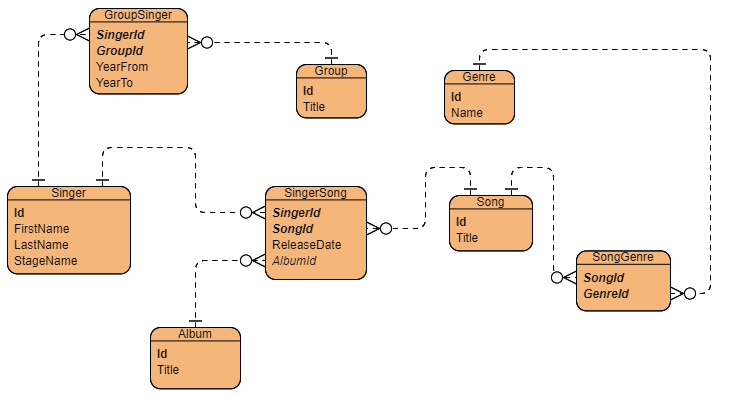
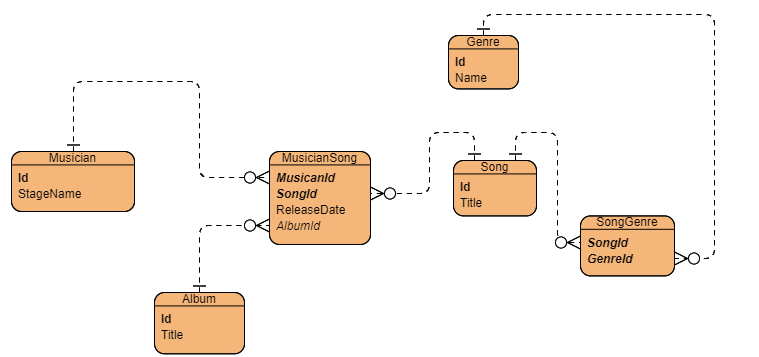
Database schema updated & create song feature added

diff --git a/src/main/java/lt/vu/usecases/Musicians.java b/src/main/java/lt/vu/usecases/Musicians.java
@@ -1,0 +1,35 @@
+package lt.vu.usecases;
+
+import lombok.Getter;
+import lt.vu.entities.Musician;
+
+import javax.annotation.PostConstruct;
+import javax.enterprise.inject.Model;
+import java.util.ArrayList;
+import java.util.List;
+
+@Model
+public class Musicians {
+    @Getter
+    private List<Musician> allMusicians;
+
+    @PostConstruct
+    public void init(){
+        loadMusicians();
+    }
+
+    public void loadMusicians() {
+        this.allMusicians = getMockedMusicians();
+    }
+
+    private List<Musician> getMockedMusicians(){
+        List<Musician> musicians = new ArrayList<>();
+        musicians.add(new Musician("Billie Eilish"));
+        musicians.add(new Musician("Taylor Swift"));
+        musicians.add(new Musician("Ed Sheeran"));
+        musicians.add(new Musician("Shawn Mendes"));
+        musicians.add(new Musician("Selena Gomez"));
+        musicians.add(new Musician("The Weeknd"));
+        return musicians;
+    }
+}

diff --git a/src/main/java/lt/vu/usecases/Songs.java b/src/main/java/lt/vu/usecases/Songs.java
@@ -1,0 +1,40 @@
+package lt.vu.usecases;
+
+import lombok.Getter;
+import lombok.Setter;
+import lt.vu.entities.Song;
+import lt.vu.persistence.SongsDAO;
+
+import javax.annotation.PostConstruct;
+import javax.enterprise.inject.Model;
+import javax.inject.Inject;
+import javax.transaction.Transactional;
+import java.util.List;
+
+@Model
+public class Songs {
+    @Inject
+    private SongsDAO songsDAO;
+
+    @Getter
+    @Setter
+    private Song songToCreate = new Song();
+
+    @Getter
+    private List<Song> allSongs;
+
+    @PostConstruct
+    public void init(){
+        loadSongs();
+    }
+
+    public void loadSongs() {
+        this.allSongs = songsDAO.loadAll();
+    }
+
+    @Transactional
+    public String createSong(){
+        this.songsDAO.persist(songToCreate);
+        return "success";
+    }
+}

diff --git a/src/main/java/lt/vu/entities/MusicianSongKey.java b/src/main/java/lt/vu/entities/MusicianSongKey.java
@@ -10,12 +10,12 @@ import java.util.Objects;
 @Getter
 @Setter
 @Embeddable
-public class SingerSongKey implements Serializable {
+public class MusicianSongKey implements Serializable {
     private Integer singerId;
 
     private Integer songId;
 
-    public SingerSongKey() {
+    public MusicianSongKey() {
 
     }
 
@@ -23,7 +23,7 @@ public class SingerSongKey implements Serializable {
     public boolean equals(Object o) {
         if (this == o) return true;
         if (o == null || getClass() != o.getClass()) return false;
-        SingerSongKey that = (SingerSongKey) o;
+        MusicianSongKey that = (MusicianSongKey) o;
         return singerId.equals(that.singerId) && songId.equals(that.songId);
     }
 

diff --git a/src/main/java/lt/vu/entities/Musician.java b/src/main/java/lt/vu/entities/Musician.java
@@ -10,17 +10,21 @@ import java.util.List;
 @Entity
 @Getter
 @Setter
-public class Band {
+public class Musician {
     @Id
     @GeneratedValue(strategy = GenerationType.IDENTITY)
     private Integer id;
-    private String title;
+    private String stageName;
+
+    @OneToMany(mappedBy = "musician")
+    List<MusicianSong> musicianSongs = new ArrayList<>();
 
 
-    @OneToMany(mappedBy = "band")
-    List<BandSinger> bandSingers = new ArrayList<>();
+    public Musician(){
 
-    public Band(){
+    }
 
+    public Musician(String stageName) {
+        this.stageName = stageName;
     }
 }

diff --git a/src/main/java/lt/vu/persistence/SongsDAO.java b/src/main/java/lt/vu/persistence/SongsDAO.java
@@ -1,0 +1,24 @@
+package lt.vu.persistence;
+
+import lombok.Setter;
+import lt.vu.entities.Song;
+
+import javax.enterprise.context.ApplicationScoped;
+import javax.persistence.EntityManager;
+import javax.persistence.PersistenceContext;
+import java.util.List;
+
+@ApplicationScoped
+public class SongsDAO {
+    @PersistenceContext
+    @Setter
+    private EntityManager em;
+
+    public List<Song> loadAll() {
+        return em.createNamedQuery("Song.findAll", Song.class).getResultList();
+    }
+
+    public void persist(Song song){
+        this.em.persist(song);
+    }
+}

diff --git a/src/main/java/lt/vu/entities/Song.java b/src/main/java/lt/vu/entities/Song.java
@@ -10,6 +10,10 @@ import java.util.List;
 @Entity
 @Getter
 @Setter
+@NamedQueries({
+        @NamedQuery(name = "Song.findAll", query = "select s from Song as s")
+})
+
 public class Song {
 
     @Id
@@ -20,8 +24,8 @@ public class Song {
     @ManyToMany
     private List<Genre> genres = new ArrayList<>();
 
-    @OneToMany(mappedBy = "singer")
-    List<SingerSong> singerSongs = new ArrayList<>();
+    @OneToMany(mappedBy = "musician")
+    List<MusicianSong> musicianSongs = new ArrayList<>();
 
     public Song(){
 

diff --git a/src/main/java/lt/vu/entities/MusicianSong.java b/src/main/java/lt/vu/entities/MusicianSong.java
@@ -12,9 +12,9 @@ import java.sql.Date;
 @Entity
 @Getter
 @Setter
-public class SingerSong {
+public class MusicianSong {
     @EmbeddedId
-    private SingerSongKey id;
+    private MusicianSongKey id;
 
     private Date ReleaseDate;
 
@@ -24,11 +24,11 @@ public class SingerSong {
 
     @ManyToOne
     @MapsId("singerId")
-    private Singer singer;
+    private Musician musician;
 
     @ManyToOne
     private Album album;
 
-    public SingerSong() {
+    public MusicianSong() {
     }
 }

diff --git a/src/main/java/lt/vu/entities/Album.java b/src/main/java/lt/vu/entities/Album.java
@@ -18,7 +18,7 @@ public class Album {
     private String title;
 
     @OneToMany(mappedBy="album")
-    private List<SingerSong> singerSongs = new ArrayList<>();
+    private List<MusicianSong> musicianSongs = new ArrayList<>();
 
     public Album(){
 
